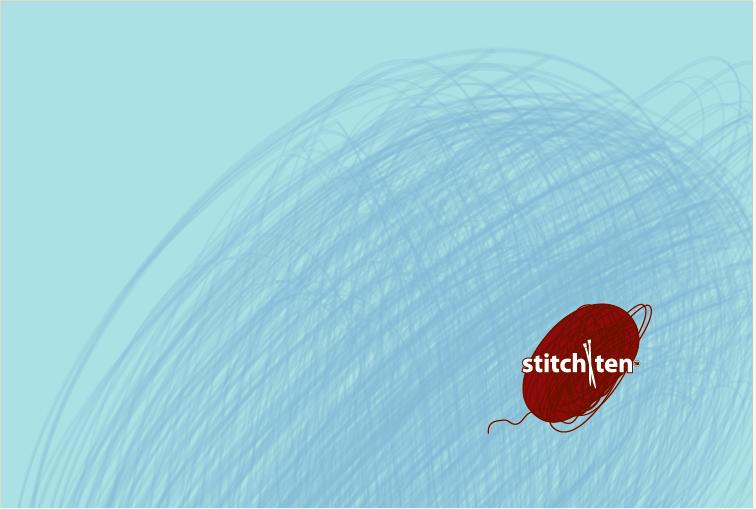
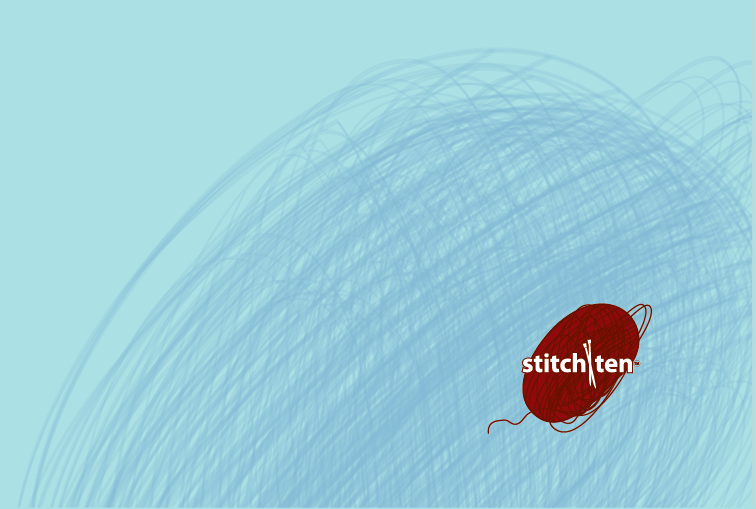
Adjusted body background and font

Changed region(s): [[0.9735, 0.0, 1.0, 1.0], [0.0, 0.9725, 0.0304, 1.0], [0.0, 0.0, 0.0304, 0.0295]]

diff --git a/public/assets/application-3734c79e331ad36bb6166897c917d89a.css b/public/assets/application-3734c79e331ad36bb6166897c917d89a.css
@@ -1,0 +1,1 @@
+body{background:#B6E1E5}div#body{height:800px;width:1450px}#sidebar{position:absolute;top:100px;left:40px;background:none;height:530px;width:100px;padding-top:20px;padding-right:40px;margin-left:0px;border-radius:15px}a{text-decoration:none}a:link{color:#911}a:visited{color:#911}li.button a{display:inline-block;font-size:20px;padding-top:30px;height:50px;width:150px;background:#999;color:#911;margin-bottom:25px;margin-left:-25px}li.button{list-style-type:none;text-align:center}#invert a{color:#999;background:#911}#divider{display:inline-block;height:100%;width:15px;background:#999;position:absolute;left:200px;top:0px}div#wrap{width:750px;margin-left:250px;height:900px;background:none;display:inline-block}div#gallery_wrap{width:700px;height:560px;margin-left:20px;display:inline-block;overflow:auto}.panel h3{position:relative;top:-42px;left:5px}.panel{width:150px;height:200px;position:relative;display:inline-block}.category_btn{height:150px;width:250px}#one{top:50px;left:50px}#two{top:50px;left:75px}#three{top:50px;left:75px}#four{top:50px;left:75px}h1{margin-left:20px}.hats{width:200px;height:150px;margin-left:25px}.scarves{width:150px;height:200px;margin-left:20px}.picture{display:inline-block;margin-top:40px}.picture h3{position:relative;top:-42px;left:-5px}.hats h3{width:210px}.scarves h3{width:164px}div.hats-picture-show{display:inline-block;position:relative;left:325px;height:300px;width:400px}.hats-description{position:relative;left:-315px;top:-15px;font-size:16px}div.scarves-picture-show{display:inline-block;position:relative;left:375px;height:400px;width:300px}.scarves-description{position:relative;left:-365px;top:-15px;font-size:15px}.green{color:#0F0}.red{color:#F00}.sold{position:relative;left:320px}.block-text{width:94%;font-size:18px;padding-left:3%;padding-right:3%;height:650px;overflow:auto}#links{position:relative;left:250px;bottom:-15px;color:#400}.link-left{margin-left:50px}#notify{color:#D74}p{color:#911}h1{color:#911}p a:link{color:#D74}p a:hover{color:#D74}

diff --git a/public/assets/application-8d9fd736a843f12219a4d7242829ce54.css b/public/assets/application-8d9fd736a843f12219a4d7242829ce54.css
@@ -1,0 +1,1 @@
+body{background:#ACE2E5}div#body{height:800px;width:1450px}#sidebar{position:absolute;top:100px;left:40px;background:none;height:530px;width:100px;padding-top:20px;padding-right:40px;margin-left:0px;border-radius:15px}a{text-decoration:none}a:link{color:#911}a:visited{color:#911}li.button a{display:inline-block;font-size:20px;padding-top:30px;height:50px;width:150px;background:#999;color:#911;margin-bottom:25px;margin-left:-25px}li.button{list-style-type:none;text-align:center}#invert a{color:#999;background:#911}#divider{display:inline-block;height:100%;width:15px;background:#999;position:absolute;left:200px;top:0px}div#wrap{width:750px;margin-left:250px;height:900px;background:none;display:inline-block}div#gallery_wrap{width:700px;height:560px;margin-left:20px;display:inline-block;overflow:auto}.panel h3{position:relative;top:-42px;left:5px}.panel{width:150px;height:200px;position:relative;display:inline-block}.category_btn{height:150px;width:250px}#one{top:50px;left:50px}#two{top:50px;left:75px}#three{top:50px;left:75px}#four{top:50px;left:75px}h1{margin-left:20px}.hats{width:200px;height:150px;margin-left:25px}.scarves{width:150px;height:200px;margin-left:20px}.picture{display:inline-block;margin-top:40px}.picture h3{position:relative;top:-42px;left:-5px}.hats h3{width:210px}.scarves h3{width:164px}div.hats-picture-show{display:inline-block;position:relative;left:325px;height:300px;width:400px}.hats-description{position:relative;left:-315px;top:-15px;font-size:16px}div.scarves-picture-show{display:inline-block;position:relative;left:375px;height:400px;width:300px}.scarves-description{position:relative;left:-365px;top:-15px;font-size:15px}.green{color:#0F0}.red{color:#F00}.sold{position:relative;left:320px}.block-text{width:94%;font-size:18px;padding-left:3%;padding-right:3%;height:650px;overflow:auto}#links{position:relative;left:250px;bottom:-15px;color:#400}.link-left{margin-left:50px}#notify{color:#D74}p{color:#911}h1{color:#911}p a:link{color:#D74}p a:hover{color:#D74}

diff --git a/public/assets/application-9d38243e3781623ac44292fbd86ec42c.css b/public/assets/application-9d38243e3781623ac44292fbd86ec42c.css
@@ -1,0 +1,1 @@
+body{background:#A6E4E5}div#body{height:800px;width:1450px}#sidebar{position:absolute;top:100px;left:40px;background:none;height:530px;width:100px;padding-top:20px;padding-right:40px;margin-left:0px;border-radius:15px}a{text-decoration:none}a:link{color:#911}a:visited{color:#911}li.button a{display:inline-block;font-size:20px;padding-top:30px;height:50px;width:150px;background:#999;color:#911;margin-bottom:25px;margin-left:-25px}li.button{list-style-type:none;text-align:center}#invert a{color:#999;background:#911}#divider{display:inline-block;height:100%;width:15px;background:#999;position:absolute;left:200px;top:0px}div#wrap{width:750px;margin-left:250px;height:900px;background:none;display:inline-block}div#gallery_wrap{width:700px;height:560px;margin-left:20px;display:inline-block;overflow:auto}.panel h3{position:relative;top:-42px;left:5px}.panel{width:150px;height:200px;position:relative;display:inline-block}.category_btn{height:150px;width:250px}#one{top:50px;left:50px}#two{top:50px;left:75px}#three{top:50px;left:75px}#four{top:50px;left:75px}h1{margin-left:20px}.hats{width:200px;height:150px;margin-left:25px}.scarves{width:150px;height:200px;margin-left:20px}.picture{display:inline-block;margin-top:40px}.picture h3{position:relative;top:-42px;left:-5px}.hats h3{width:210px}.scarves h3{width:164px}div.hats-picture-show{display:inline-block;position:relative;left:325px;height:300px;width:400px}.hats-description{position:relative;left:-315px;top:-15px;font-size:16px}div.scarves-picture-show{display:inline-block;position:relative;left:375px;height:400px;width:300px}.scarves-description{position:relative;left:-365px;top:-15px;font-size:15px}.green{color:#0F0}.red{color:#F00}.sold{position:relative;left:320px}.block-text{width:94%;font-size:18px;padding-left:3%;padding-right:3%;height:650px;overflow:auto}#links{position:relative;left:250px;bottom:-15px;color:#400}.link-left{margin-left:50px}#notify{color:#D74}p{color:#911}h1{color:#911}p a:link{color:#D74}p a:hover{color:#D74}

diff --git a/public/assets/application-a5b53a893877e9c03e7b73f26fd2dba3.css b/public/assets/application-a5b53a893877e9c03e7b73f26fd2dba3.css
@@ -1,0 +1,1 @@
+body{background:#A2E3E5}div#body{height:800px;width:1450px}#sidebar{position:absolute;top:100px;left:40px;background:none;height:530px;width:100px;padding-top:20px;padding-right:40px;margin-left:0px;border-radius:15px}a{text-decoration:none}a:link{color:#911}a:visited{color:#911}li.button a{display:inline-block;font-size:20px;padding-top:30px;height:50px;width:150px;background:#999;color:#911;margin-bottom:25px;margin-left:-25px}li.button{list-style-type:none;text-align:center}#invert a{color:#999;background:#911}#divider{display:inline-block;height:100%;width:15px;background:#999;position:absolute;left:200px;top:0px}div#wrap{width:750px;margin-left:250px;height:900px;background:none;display:inline-block}div#gallery_wrap{width:700px;height:560px;margin-left:20px;display:inline-block;overflow:auto}.panel h3{position:relative;top:-42px;left:5px}.panel{width:150px;height:200px;position:relative;display:inline-block}.category_btn{height:150px;width:250px}#one{top:50px;left:50px}#two{top:50px;left:75px}#three{top:50px;left:75px}#four{top:50px;left:75px}h1{margin-left:20px}.hats{width:200px;height:150px;margin-left:25px}.scarves{width:150px;height:200px;margin-left:20px}.picture{display:inline-block;margin-top:40px}.picture h3{position:relative;top:-42px;left:-5px}.hats h3{width:210px}.scarves h3{width:164px}div.hats-picture-show{display:inline-block;position:relative;left:325px;height:300px;width:400px}.hats-description{position:relative;left:-315px;top:-15px;font-size:16px}div.scarves-picture-show{display:inline-block;position:relative;left:375px;height:400px;width:300px}.scarves-description{position:relative;left:-365px;top:-15px;font-size:15px}.green{color:#0F0}.red{color:#F00}.sold{position:relative;left:320px}.block-text{width:94%;font-size:18px;padding-left:3%;padding-right:3%;height:650px;overflow:auto}#links{position:relative;left:250px;bottom:-15px;color:#400}.link-left{margin-left:50px}#notify{color:#D74}p{color:#911}h1{color:#911}p a:link{color:#D74}p a:hover{color:#D74}

diff --git a/public/assets/application-d426018a3e16dc4b6613aadc53b5e312.css b/public/assets/application-d426018a3e16dc4b6613aadc53b5e312.css
@@ -1,0 +1,1 @@
+body{background:#BCD0D4}div#body{height:800px;width:1450px}#sidebar{position:absolute;top:100px;left:40px;background:none;height:530px;width:100px;padding-top:20px;padding-right:40px;margin-left:0px;border-radius:15px}a{text-decoration:none}a:link{color:#911}a:visited{color:#911}li.button a{display:inline-block;font-size:20px;padding-top:30px;height:50px;width:150px;background:#999;color:#911;margin-bottom:25px;margin-left:-25px}li.button{list-style-type:none;text-align:center}#invert a{color:#999;background:#911}#divider{display:inline-block;height:100%;width:15px;background:#999;position:absolute;left:200px;top:0px}div#wrap{width:750px;margin-left:250px;height:900px;background:none;display:inline-block}div#gallery_wrap{width:700px;height:560px;margin-left:20px;display:inline-block;overflow:auto}.panel h3{position:relative;top:-42px;left:5px}.panel{width:150px;height:200px;position:relative;display:inline-block}.category_btn{height:150px;width:250px}#one{top:50px;left:50px}#two{top:50px;left:75px}#three{top:50px;left:75px}#four{top:50px;left:75px}h1{margin-left:20px}.hats{width:200px;height:150px;margin-left:25px}.scarves{width:150px;height:200px;margin-left:20px}.picture{display:inline-block;margin-top:40px}.picture h3{position:relative;top:-42px;left:-5px}.hats h3{width:210px}.scarves h3{width:164px}div.hats-picture-show{display:inline-block;position:relative;left:325px;height:300px;width:400px}.hats-description{position:relative;left:-315px;top:-15px;font-size:16px}div.scarves-picture-show{display:inline-block;position:relative;left:375px;height:400px;width:300px}.scarves-description{position:relative;left:-365px;top:-15px;font-size:15px}.green{color:#0F0}.red{color:#F00}.sold{position:relative;left:320px}.block-text{width:94%;font-size:18px;padding-left:3%;padding-right:3%;height:650px;overflow:auto}#links{position:relative;left:250px;bottom:-15px;color:#400}.link-left{margin-left:50px}#notify{color:#D74}p{color:#911}h1{color:#911}p a:link{color:#D74}p a:hover{color:#D74}

diff --git a/app/assets/stylesheets/application.css b/app/assets/stylesheets/application.css
@@ -13,12 +13,12 @@
  */
 
 body{
-	background:#FFF;
+	background:#A2E3E5;
 }
 
 div#body{
-	height:1080px;
-	width:1600px;
+	height:800px;
+	width:1450px;
 }
 
  #sidebar{
@@ -237,10 +237,24 @@ div.scarves-picture-show{
 
 p{
 	color:#911;
+	font-family: 'Open Sans', sans-serif;
 }
 
 h1{
 	color:#911;
+	font-family: 'Open Sans', sans-serif;
+}
+
+h3{
+	font-family: 'Open Sans', sans-serif;
+}
+
+h2{
+	font-family: 'Open Sans', sans-serif;
+}
+
+a{
+	font-family: 'Open Sans', sans-serif;
 }
 
 p a:link{
